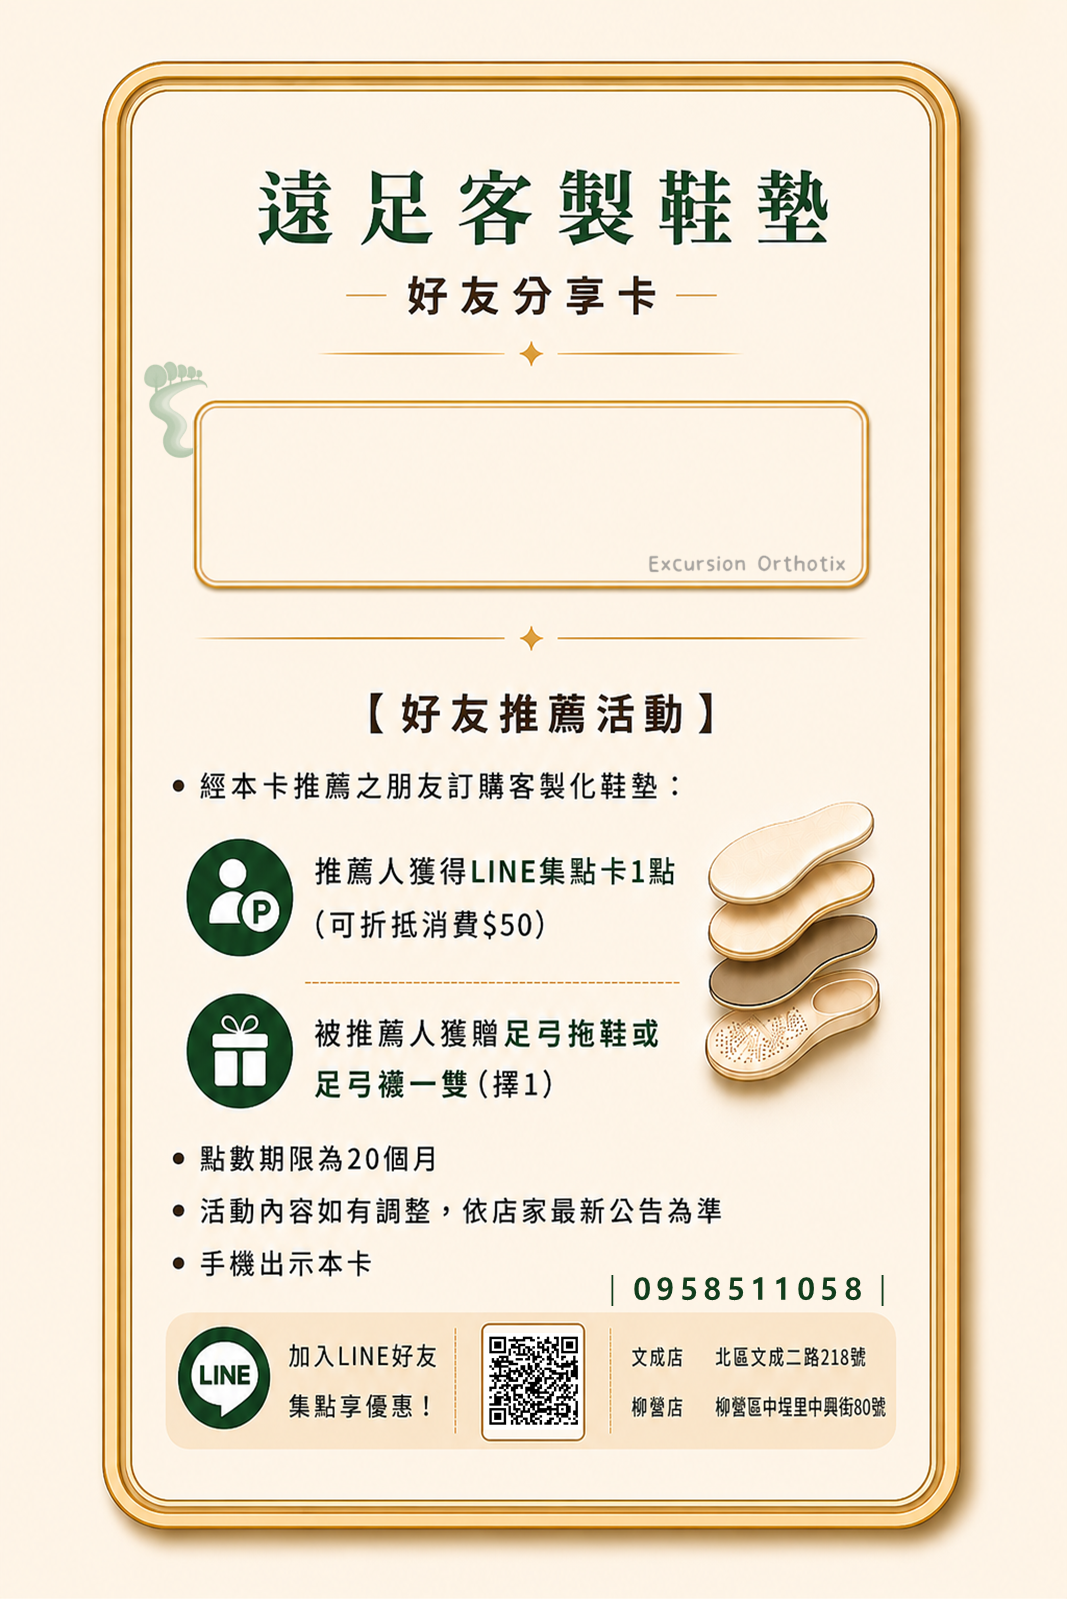
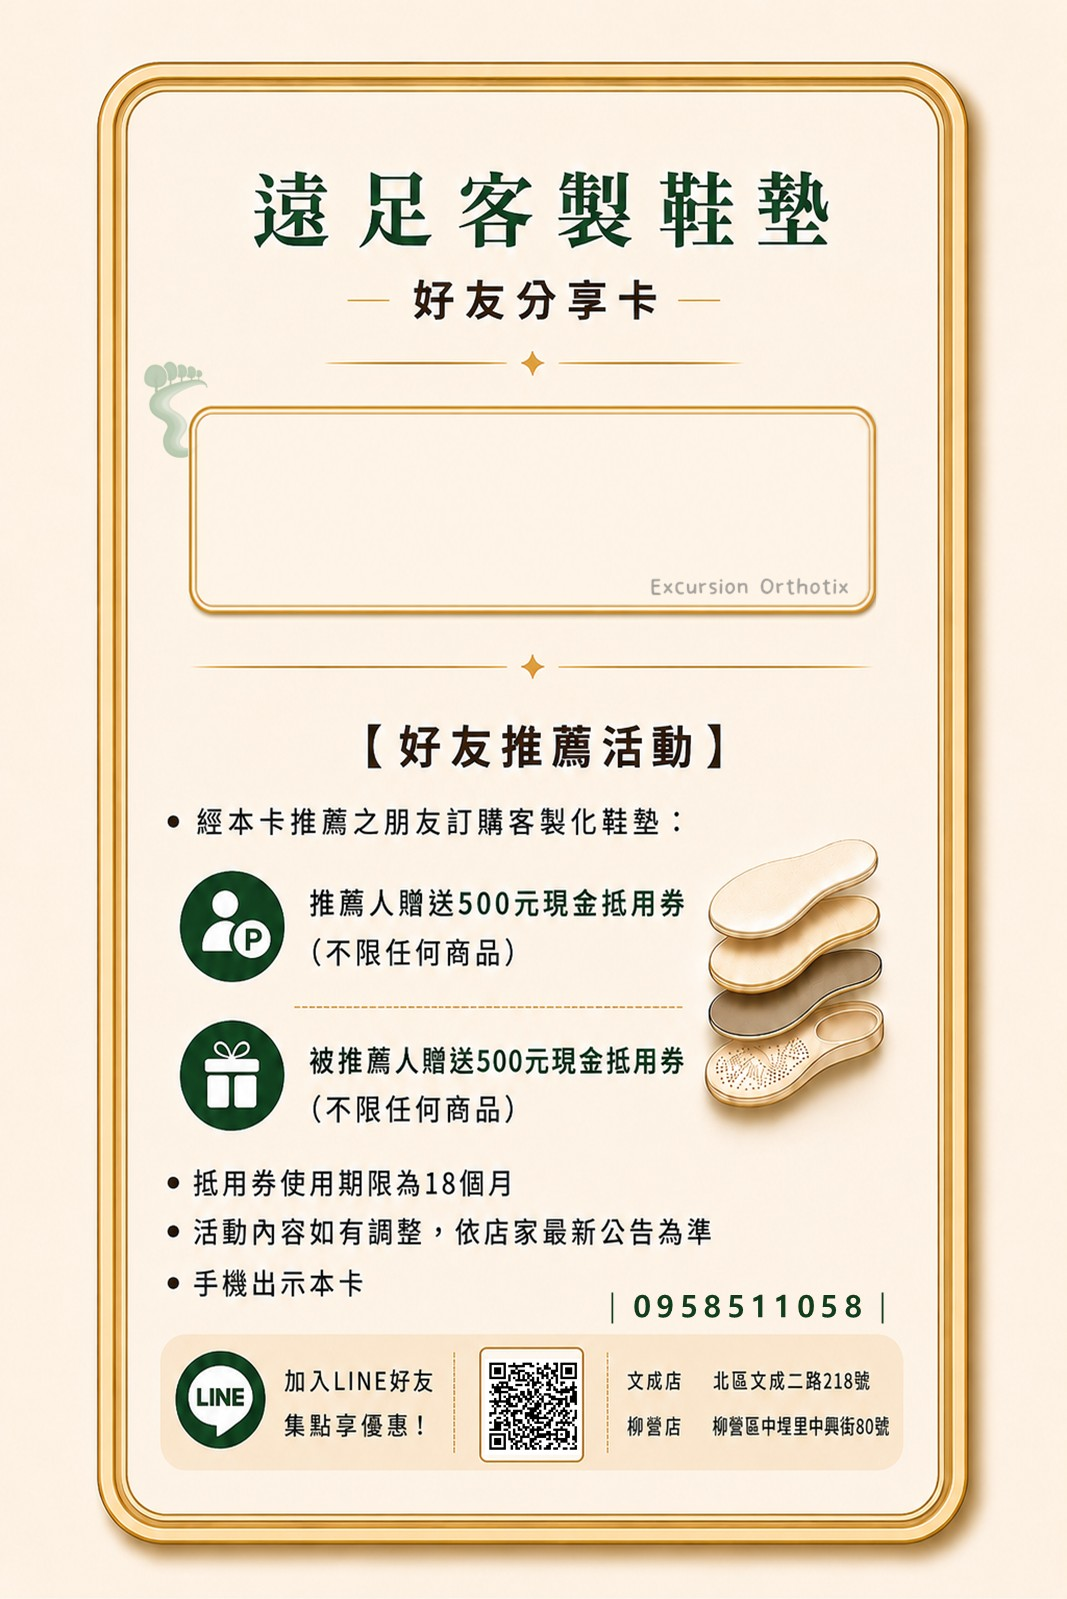
Add files via upload

diff --git a/index.html b/index.html
@@ -160,11 +160,11 @@
   }
 
   // 空白框的座標範圍（依實際設計圖 1067x1599 量測）
-  const BOX = { left: 201, right: 862, top: 407, bottom: 581 };
+  const BOX = { left: 192, right: 872, top: 410, bottom: 610 };
   const BOX_CENTER_X = (BOX.left + BOX.right) / 2;
   const BOX_CENTER_Y = (BOX.top + BOX.bottom) / 2;
   const BOX_MAX_WIDTH = (BOX.right - BOX.left) * 0.78;   // 寬度上限
-  const BOX_MAX_HALF_HEIGHT = 52;                         // 高度上限，避免壓到底圖右下角「Excursion Orthotix」字樣
+  const BOX_MAX_HALF_HEIGHT = 55;                         // 高度上限，避免壓到底圖右下角「Excursion Orthotix」字樣
 
   // 字體後備順序（防呆）：芫荽體沒有的字，自動換下一個字體顯示，不會出現缺字方框
   const FONT_STACK = '"Iansui", "PingFang TC", "Noto Sans CJK TC", "Microsoft JhengHei", sans-serif';
